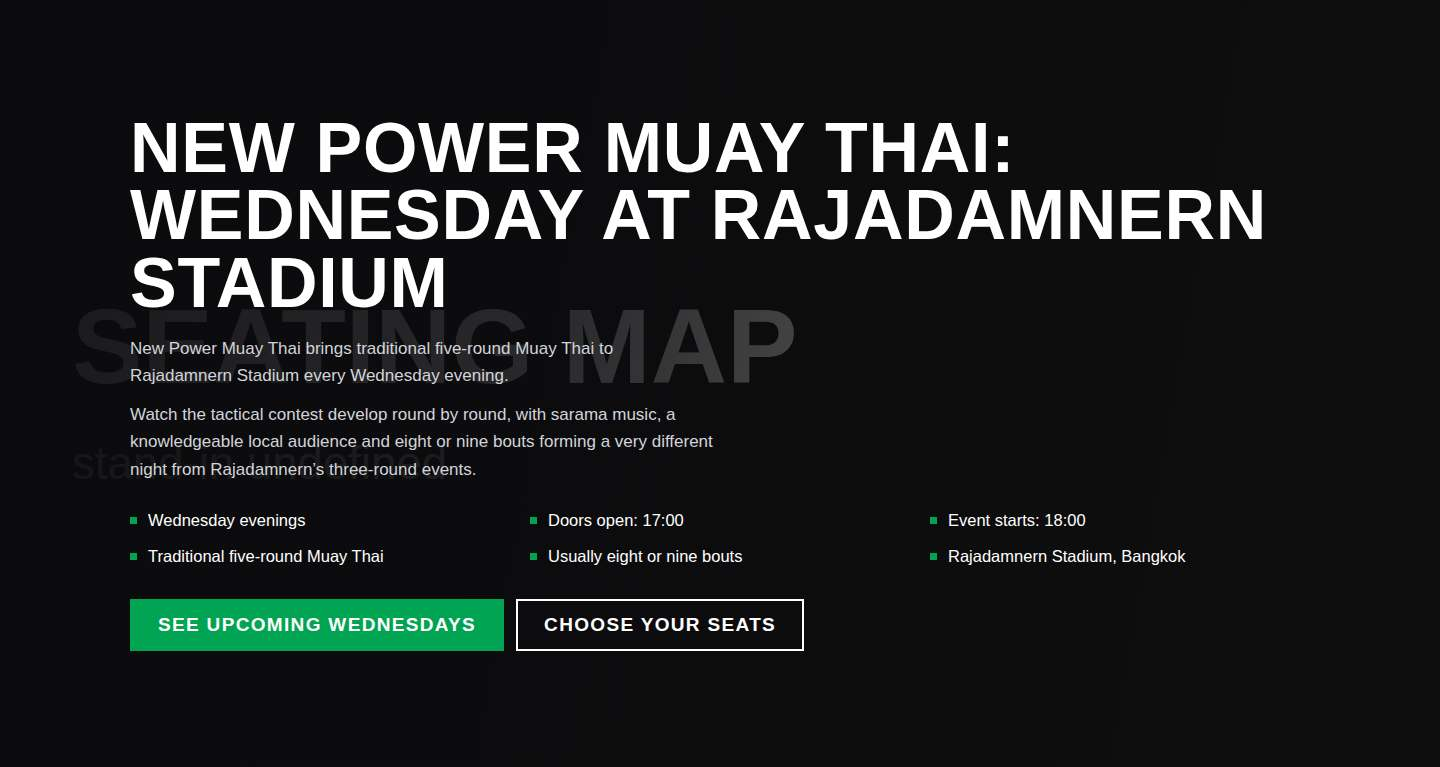
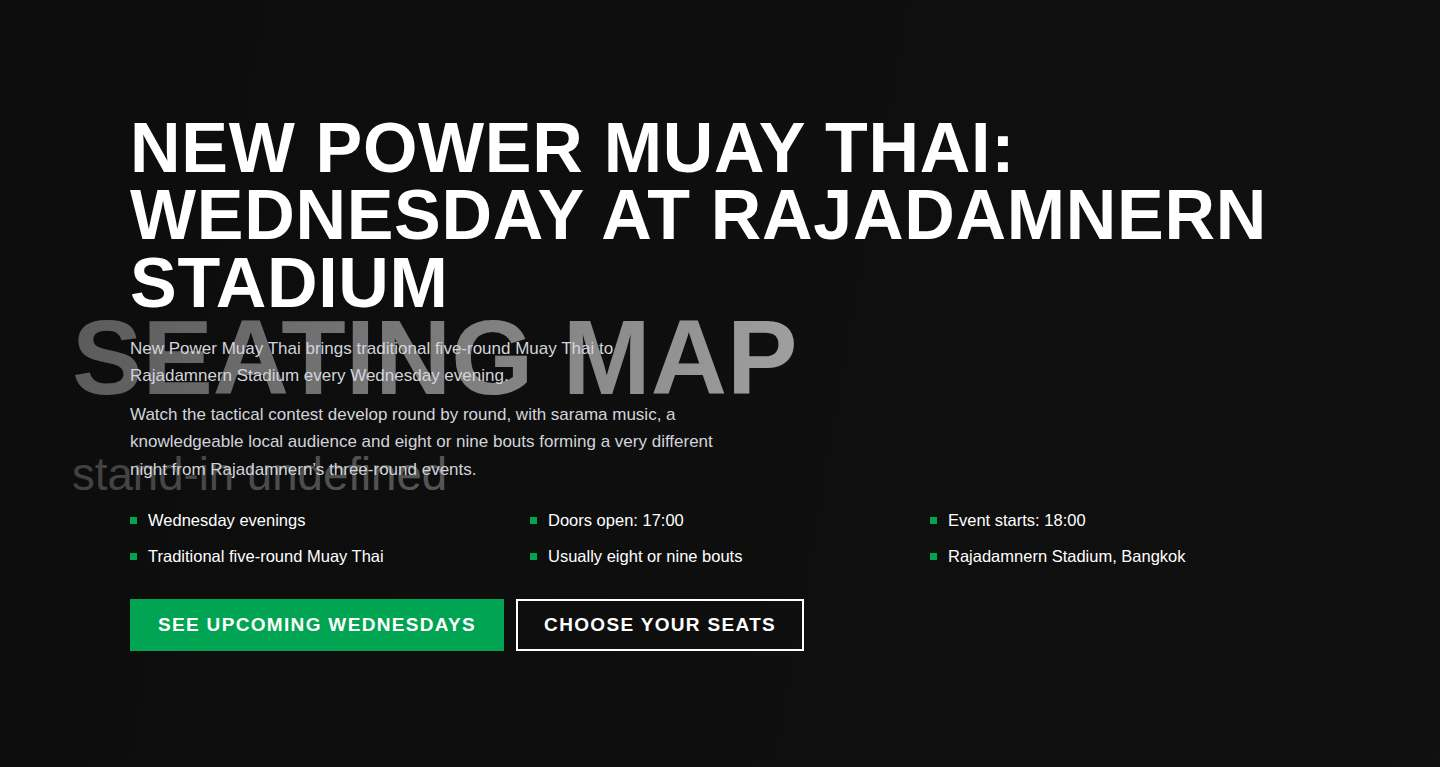
New Power hero: new dome photo, and the scrim lightened so it actually shows
Jason's own words on the old hero: "you can hardly see [the photograph],
in fact it's hardly even worth putting the photograph in." The old
gradient went up to 95% black on the readable side and never dropped
below 52% even on the clear side. That's most of the photo gone under
a wash before it ever reaches a guest.

Swapped in the supplied Garuda dome photo and cut every gradient stop
roughly in half (desktop: 95/88/66/52 -> 72/50/28/12; mobile the same
shape, lightened to match). Applies to both the hub and the dated page,
since they share one .mtx-np__hero rule in style.css.

Added the supplied alt text too. The hero is a CSS background-image,
which has no alt attribute of its own, so it goes in as a visually
hidden paragraph (the same .mtx-np__plain pattern this file already
uses for the machine-readable date list) -- readable to a screen
reader and a crawler, invisible on screen. Registered as verified data
in verify.mjs's authored-text audit rather than letting it fail as
unapproved prose.

Could not rename the actual file on Tilda's asset host to the name
supplied -- that host's file names are its own internal ids, not
something this build controls. Flagged rather than silently dropped;
the URL itself is exactly what was given.

Not independently confirmed: whether the lightened scrim keeps the
headline legible against the real photo's brightest area. static.
tildacdn.com is blocked in this environment (CLAUDE.md section 9), so
[…]

Changed region(s): [[0.0312, 0.3898, 0.5625, 0.5398], [0.0312, 0.5997, 0.3125, 0.6597]]

diff --git a/pages/new-power/dated-source.html b/pages/new-power/dated-source.html
@@ -95,10 +95,14 @@
    wipe out both the photograph and the black behind it, leaving white type on
    a white hero. The hero brings its own padding instead.
 
-   The photograph sits under a scrim rather than on its own: the dome is bright
-   teal and red and the headline is white, so without it the type would be
-   unreadable across the top third. The gradient is heavier on the left, where
-   all the words are, and thins to the right so the stadium still shows.
+   The photograph sits under a scrim rather than on its own, just enough to
+   keep the white headline readable over the brightest part of the image. The
+   gradient is heavier on the left, where all the words are, and thins to the
+   right so the dome and the crowd actually show. Jason's own words on the
+   original, much heavier version of this scrim: "you can hardly see [the
+   photograph], in fact it's hardly even worth putting the photograph in" --
+   30 September 2026. Lightened here for that reason. Do not darken it back up
+   without checking contrast on the headline first.
 
    background-color stays as a fallback. If the image is slow, or blocked, or
    the URL ever changes, the hero is simply black again and nothing breaks. */
@@ -108,27 +112,27 @@
   background-color: var(--np-ink);
   background-image:
     linear-gradient(100deg,
-      rgba(11,11,13,.95) 0%,
-      rgba(11,11,13,.88) 38%,
-      rgba(11,11,13,.66) 72%,
-      rgba(11,11,13,.52) 100%),
-    url("https://static.tildacdn.com/tild6364-3165-4631-a135-656136313164/1000007575.jpg");
+      rgba(11,11,13,.72) 0%,
+      rgba(11,11,13,.50) 38%,
+      rgba(11,11,13,.28) 72%,
+      rgba(11,11,13,.12) 100%),
+    url("https://static.tildacdn.com/tild3230-3961-4337-b463-373839306631/1000007613.jpg");
   background-repeat: no-repeat;
   background-size: cover;
-  background-position: center 38%;
+  background-position: center 32%;
 }
-/* On a narrow screen the hero is tall and the square crops to a column, so the
-   scrim runs top to bottom instead of left to right. */
+/* On a narrow screen the hero is tall and the wide photo crops to a column,
+   so the scrim runs top to bottom instead of left to right. */
 @media (max-width: 760px) {
   .mtx-np__hero {
     background-image:
       linear-gradient(180deg,
-        rgba(11,11,13,.86) 0%,
-        rgba(11,11,13,.74) 30%,
-        rgba(11,11,13,.88) 72%,
-        rgba(11,11,13,.96) 100%),
-      url("https://static.tildacdn.com/tild6364-3165-4631-a135-656136313164/1000007575.jpg");
-    background-position: center 30%;
+        rgba(11,11,13,.62) 0%,
+        rgba(11,11,13,.42) 30%,
+        rgba(11,11,13,.62) 72%,
+        rgba(11,11,13,.80) 100%),
+      url("https://static.tildacdn.com/tild3230-3961-4337-b463-373839306631/1000007613.jpg");
+    background-position: center 25%;
   }
 }
 /* Nothing sits between the H1 and this paragraph, in the markup or on screen.
@@ -655,6 +659,7 @@
 </style>
 
   <header class="mtx-np__hero">
+      <p class="mtx-np__plain">The Garuda appears across Rajadamnern Stadium’s immersive dome above the Muay Thai ring, with green light beams illuminating the packed arena during New Power Muay Thai in Bangkok.</p>
     <div class="mtx-np__shell">
       <h1>New Power Muay Thai, Wednesday 30 September 2026</h1>
       <p class="mtx-np__lede">Watch traditional five-round Muay Thai at Rajadamnern Stadium on Wednesday 30 September 2026, with the tactical contest developing round by round across a full evening of New Power Muay Thai.</p>

diff --git a/pages/new-power/hub-source.html b/pages/new-power/hub-source.html
@@ -95,10 +95,14 @@
    wipe out both the photograph and the black behind it, leaving white type on
    a white hero. The hero brings its own padding instead.
 
-   The photograph sits under a scrim rather than on its own: the dome is bright
-   teal and red and the headline is white, so without it the type would be
-   unreadable across the top third. The gradient is heavier on the left, where
-   all the words are, and thins to the right so the stadium still shows.
+   The photograph sits under a scrim rather than on its own, just enough to
+   keep the white headline readable over the brightest part of the image. The
+   gradient is heavier on the left, where all the words are, and thins to the
+   right so the dome and the crowd actually show. Jason's own words on the
+   original, much heavier version of this scrim: "you can hardly see [the
+   photograph], in fact it's hardly even worth putting the photograph in" --
+   30 September 2026. Lightened here for that reason. Do not darken it back up
+   without checking contrast on the headline first.
 
    background-color stays as a fallback. If the image is slow, or blocked, or
    the URL ever changes, the hero is simply black again and nothing breaks. */
@@ -108,27 +112,27 @@
   background-color: var(--np-ink);
   background-image:
     linear-gradient(100deg,
-      rgba(11,11,13,.95) 0%,
-      rgba(11,11,13,.88) 38%,
-      rgba(11,11,13,.66) 72%,
-      rgba(11,11,13,.52) 100%),
-    url("https://static.tildacdn.com/tild6364-3165-4631-a135-656136313164/1000007575.jpg");
+      rgba(11,11,13,.72) 0%,
+      rgba(11,11,13,.50) 38%,
+      rgba(11,11,13,.28) 72%,
+      rgba(11,11,13,.12) 100%),
+    url("https://static.tildacdn.com/tild3230-3961-4337-b463-373839306631/1000007613.jpg");
   background-repeat: no-repeat;
   background-size: cover;
-  background-position: center 38%;
+  background-position: center 32%;
 }
-/* On a narrow screen the hero is tall and the square crops to a column, so the
-   scrim runs top to bottom instead of left to right. */
+/* On a narrow screen the hero is tall and the wide photo crops to a column,
+   so the scrim runs top to bottom instead of left to right. */
 @media (max-width: 760px) {
   .mtx-np__hero {
     background-image:
       linear-gradient(180deg,
-        rgba(11,11,13,.86) 0%,
-        rgba(11,11,13,.74) 30%,
-        rgba(11,11,13,.88) 72%,
-        rgba(11,11,13,.96) 100%),
-      url("https://static.tildacdn.com/tild6364-3165-4631-a135-656136313164/1000007575.jpg");
-    background-position: center 30%;
+        rgba(11,11,13,.62) 0%,
+        rgba(11,11,13,.42) 30%,
+        rgba(11,11,13,.62) 72%,
+        rgba(11,11,13,.80) 100%),
+      url("https://static.tildacdn.com/tild3230-3961-4337-b463-373839306631/1000007613.jpg");
+    background-position: center 25%;
   }
 }
 /* Nothing sits between the H1 and this paragraph, in the markup or on screen.
@@ -655,6 +659,7 @@
 </style>
 
   <header class="mtx-np__hero">
+      <p class="mtx-np__plain">The Garuda appears across Rajadamnern Stadium’s immersive dome above the Muay Thai ring, with green light beams illuminating the packed arena during New Power Muay Thai in Bangkok.</p>
     <div class="mtx-np__shell">
       <h1>New Power Muay Thai: Wednesday at Rajadamnern Stadium</h1>
       <p class="mtx-np__lede">New Power Muay Thai brings traditional five-round Muay Thai to Rajadamnern Stadium every Wednesday evening.</p>

diff --git a/pages/new-power/style.css b/pages/new-power/style.css
@@ -82,10 +82,14 @@
    wipe out both the photograph and the black behind it, leaving white type on
    a white hero. The hero brings its own padding instead.
 
-   The photograph sits under a scrim rather than on its own: the dome is bright
-   teal and red and the headline is white, so without it the type would be
-   unreadable across the top third. The gradient is heavier on the left, where
-   all the words are, and thins to the right so the stadium still shows.
+   The photograph sits under a scrim rather than on its own, just enough to
+   keep the white headline readable over the brightest part of the image. The
+   gradient is heavier on the left, where all the words are, and thins to the
+   right so the dome and the crowd actually show. Jason's own words on the
+   original, much heavier version of this scrim: "you can hardly see [the
+   photograph], in fact it's hardly even worth putting the photograph in" --
+   30 September 2026. Lightened here for that reason. Do not darken it back up
+   without checking contrast on the headline first.
 
    background-color stays as a fallback. If the image is slow, or blocked, or
    the URL ever changes, the hero is simply black again and nothing breaks. */
@@ -95,27 +99,27 @@
   background-color: var(--np-ink);
   background-image:
     linear-gradient(100deg,
-      rgba(11,11,13,.95) 0%,
-      rgba(11,11,13,.88) 38%,
-      rgba(11,11,13,.66) 72%,
-      rgba(11,11,13,.52) 100%),
-    url("https://static.tildacdn.com/tild6364-3165-4631-a135-656136313164/1000007575.jpg");
+      rgba(11,11,13,.72) 0%,
+      rgba(11,11,13,.50) 38%,
+      rgba(11,11,13,.28) 72%,
+      rgba(11,11,13,.12) 100%),
+    url("https://static.tildacdn.com/tild3230-3961-4337-b463-373839306631/1000007613.jpg");
   background-repeat: no-repeat;
   background-size: cover;
-  background-position: center 38%;
+  background-position: center 32%;
 }
-/* On a narrow screen the hero is tall and the square crops to a column, so the
-   scrim runs top to bottom instead of left to right. */
+/* On a narrow screen the hero is tall and the wide photo crops to a column,
+   so the scrim runs top to bottom instead of left to right. */
 @media (max-width: 760px) {
   .mtx-np__hero {
     background-image:
       linear-gradient(180deg,
-        rgba(11,11,13,.86) 0%,
-        rgba(11,11,13,.74) 30%,
-        rgba(11,11,13,.88) 72%,
-        rgba(11,11,13,.96) 100%),
-      url("https://static.tildacdn.com/tild6364-3165-4631-a135-656136313164/1000007575.jpg");
-    background-position: center 30%;
+        rgba(11,11,13,.62) 0%,
+        rgba(11,11,13,.42) 30%,
+        rgba(11,11,13,.62) 72%,
+        rgba(11,11,13,.80) 100%),
+      url("https://static.tildacdn.com/tild3230-3961-4337-b463-373839306631/1000007613.jpg");
+    background-position: center 25%;
   }
 }
 /* Nothing sits between the H1 and this paragraph, in the markup or on screen.

diff --git a/pages/new-power/new-power-30-SEP-PASTE-INTO-TILDA.html b/pages/new-power/new-power-30-SEP-PASTE-INTO-TILDA.html
@@ -71,26 +71,26 @@
   background-color: var(--np-ink);
   background-image:
     linear-gradient(100deg,
-      rgba(11,11,13,.95) 0%,
-      rgba(11,11,13,.88) 38%,
-      rgba(11,11,13,.66) 72%,
-      rgba(11,11,13,.52) 100%),
-    url("https://static.tildacdn.com/tild6364-3165-4631-a135-656136313164/1000007575.jpg");
+      rgba(11,11,13,.72) 0%,
+      rgba(11,11,13,.50) 38%,
+      rgba(11,11,13,.28) 72%,
+      rgba(11,11,13,.12) 100%),
+    url("https://static.tildacdn.com/tild3230-3961-4337-b463-373839306631/1000007613.jpg");
   background-repeat: no-repeat;
   background-size: cover;
-  background-position: center 38%;
+  background-position: center 32%;
 }
 
 @media (max-width: 760px) {
   .mtx-np__hero {
     background-image:
       linear-gradient(180deg,
-        rgba(11,11,13,.86) 0%,
-        rgba(11,11,13,.74) 30%,
-        rgba(11,11,13,.88) 72%,
-        rgba(11,11,13,.96) 100%),
-      url("https://static.tildacdn.com/tild6364-3165-4631-a135-656136313164/1000007575.jpg");
-    background-position: center 30%;
+        rgba(11,11,13,.62) 0%,
+        rgba(11,11,13,.42) 30%,
+        rgba(11,11,13,.62) 72%,
+        rgba(11,11,13,.80) 100%),
+      url("https://static.tildacdn.com/tild3230-3961-4337-b463-373839306631/1000007613.jpg");
+    background-position: center 25%;
   }
 }
 
@@ -479,6 +479,7 @@
 .mtx-np .mtx-np__faq { margin-top: 24px; }</style>
 
   <header class="mtx-np__hero">
+      <p class="mtx-np__plain">The Garuda appears across Rajadamnern Stadium’s immersive dome above the Muay Thai ring, with green light beams illuminating the packed arena during New Power Muay Thai in Bangkok.</p>
     <div class="mtx-np__shell">
       <h1>New Power Muay Thai, Wednesday 30 September 2026</h1>
       <p class="mtx-np__lede">Watch traditional five-round Muay Thai at Rajadamnern Stadium on Wednesday 30 September 2026, with the tactical contest developing round by round across a full evening of New Power Muay Thai.</p>

diff --git a/pages/new-power/new-power-HUB-PASTE-INTO-TILDA.html b/pages/new-power/new-power-HUB-PASTE-INTO-TILDA.html
@@ -71,26 +71,26 @@
   background-color: var(--np-ink);
   background-image:
     linear-gradient(100deg,
-      rgba(11,11,13,.95) 0%,
-      rgba(11,11,13,.88) 38%,
-      rgba(11,11,13,.66) 72%,
-      rgba(11,11,13,.52) 100%),
-    url("https://static.tildacdn.com/tild6364-3165-4631-a135-656136313164/1000007575.jpg");
+      rgba(11,11,13,.72) 0%,
+      rgba(11,11,13,.50) 38%,
+      rgba(11,11,13,.28) 72%,
+      rgba(11,11,13,.12) 100%),
+    url("https://static.tildacdn.com/tild3230-3961-4337-b463-373839306631/1000007613.jpg");
   background-repeat: no-repeat;
   background-size: cover;
-  background-position: center 38%;
+  background-position: center 32%;
 }
 
 @media (max-width: 760px) {
   .mtx-np__hero {
     background-image:
       linear-gradient(180deg,
-        rgba(11,11,13,.86) 0%,
-        rgba(11,11,13,.74) 30%,
-        rgba(11,11,13,.88) 72%,
-        rgba(11,11,13,.96) 100%),
-      url("https://static.tildacdn.com/tild6364-3165-4631-a135-656136313164/1000007575.jpg");
-    background-position: center 30%;
+        rgba(11,11,13,.62) 0%,
+        rgba(11,11,13,.42) 30%,
+        rgba(11,11,13,.62) 72%,
+        rgba(11,11,13,.80) 100%),
+      url("https://static.tildacdn.com/tild3230-3961-4337-b463-373839306631/1000007613.jpg");
+    background-position: center 25%;
   }
 }
 
@@ -479,6 +479,7 @@
 .mtx-np .mtx-np__faq { margin-top: 24px; }</style>
 
   <header class="mtx-np__hero">
+      <p class="mtx-np__plain">The Garuda appears across Rajadamnern Stadium’s immersive dome above the Muay Thai ring, with green light beams illuminating the packed arena during New Power Muay Thai in Bangkok.</p>
     <div class="mtx-np__shell">
       <h1>New Power Muay Thai: Wednesday at Rajadamnern Stadium</h1>
       <p class="mtx-np__lede">New Power Muay Thai brings traditional five-round Muay Thai to Rajadamnern Stadium every Wednesday evening.</p>

diff --git a/pages/new-power/dated-body.html b/pages/new-power/dated-body.html
@@ -1,4 +1,5 @@
   <header class="mtx-np__hero">
+      <p class="mtx-np__plain">The Garuda appears across Rajadamnern Stadium’s immersive dome above the Muay Thai ring, with green light beams illuminating the packed arena during New Power Muay Thai in Bangkok.</p>
     <div class="mtx-np__shell">
       <h1>New Power Muay Thai, Wednesday 30 September 2026</h1>
       <p class="mtx-np__lede">Watch traditional five-round Muay Thai at Rajadamnern Stadium on Wednesday 30 September 2026, with the tactical contest developing round by round across a full evening of New Power Muay Thai.</p>

diff --git a/pages/new-power/hub-body.html b/pages/new-power/hub-body.html
@@ -1,4 +1,5 @@
   <header class="mtx-np__hero">
+      <p class="mtx-np__plain">The Garuda appears across Rajadamnern Stadium’s immersive dome above the Muay Thai ring, with green light beams illuminating the packed arena during New Power Muay Thai in Bangkok.</p>
     <div class="mtx-np__shell">
       <h1>New Power Muay Thai: Wednesday at Rajadamnern Stadium</h1>
       <p class="mtx-np__lede">New Power Muay Thai brings traditional five-round Muay Thai to Rajadamnern Stadium every Wednesday evening.</p>
